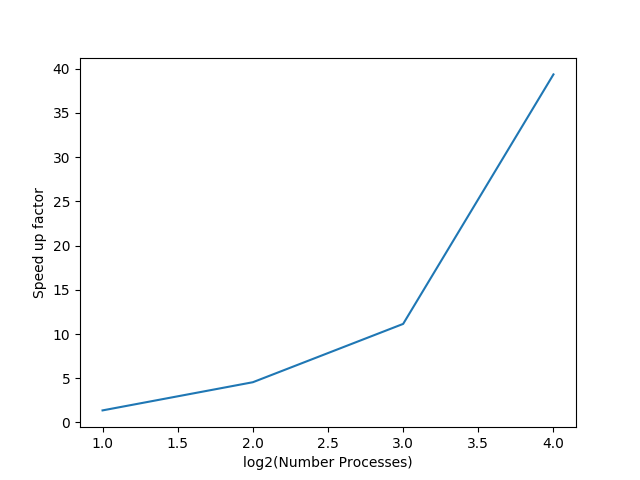
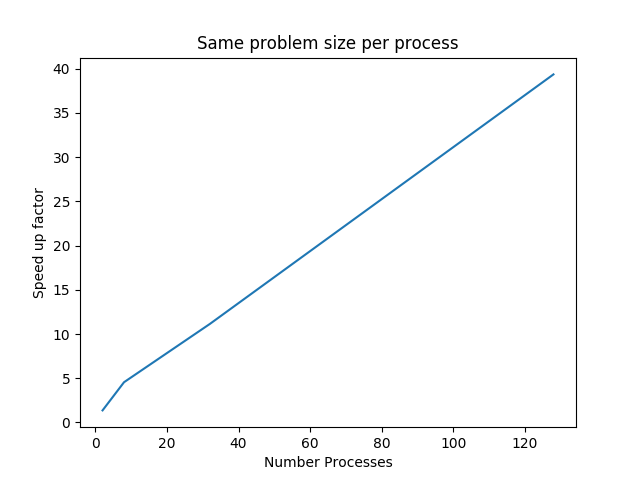
fix graph

diff --git a/9_HW_MatMul_MasterSlave/5_plot.py b/9_HW_MatMul_MasterSlave/5_plot.py
@@ -8,9 +8,11 @@ t_s = np.genfromtxt("5_data.dat")[1:,2]
 t_p = np.genfromtxt("5_data.dat")[1:,3]
 s = np.divide(t_s,t_p)
 
+x = np.power(2, x)
 print(x, s)
 
 plt.plot(x, s)
-plt.xlabel("log2(Number Processes)")
+plt.title("Same problem size per process")
+plt.xlabel("Number Processes")
 plt.ylabel("Speed up factor")
 plt.show()
